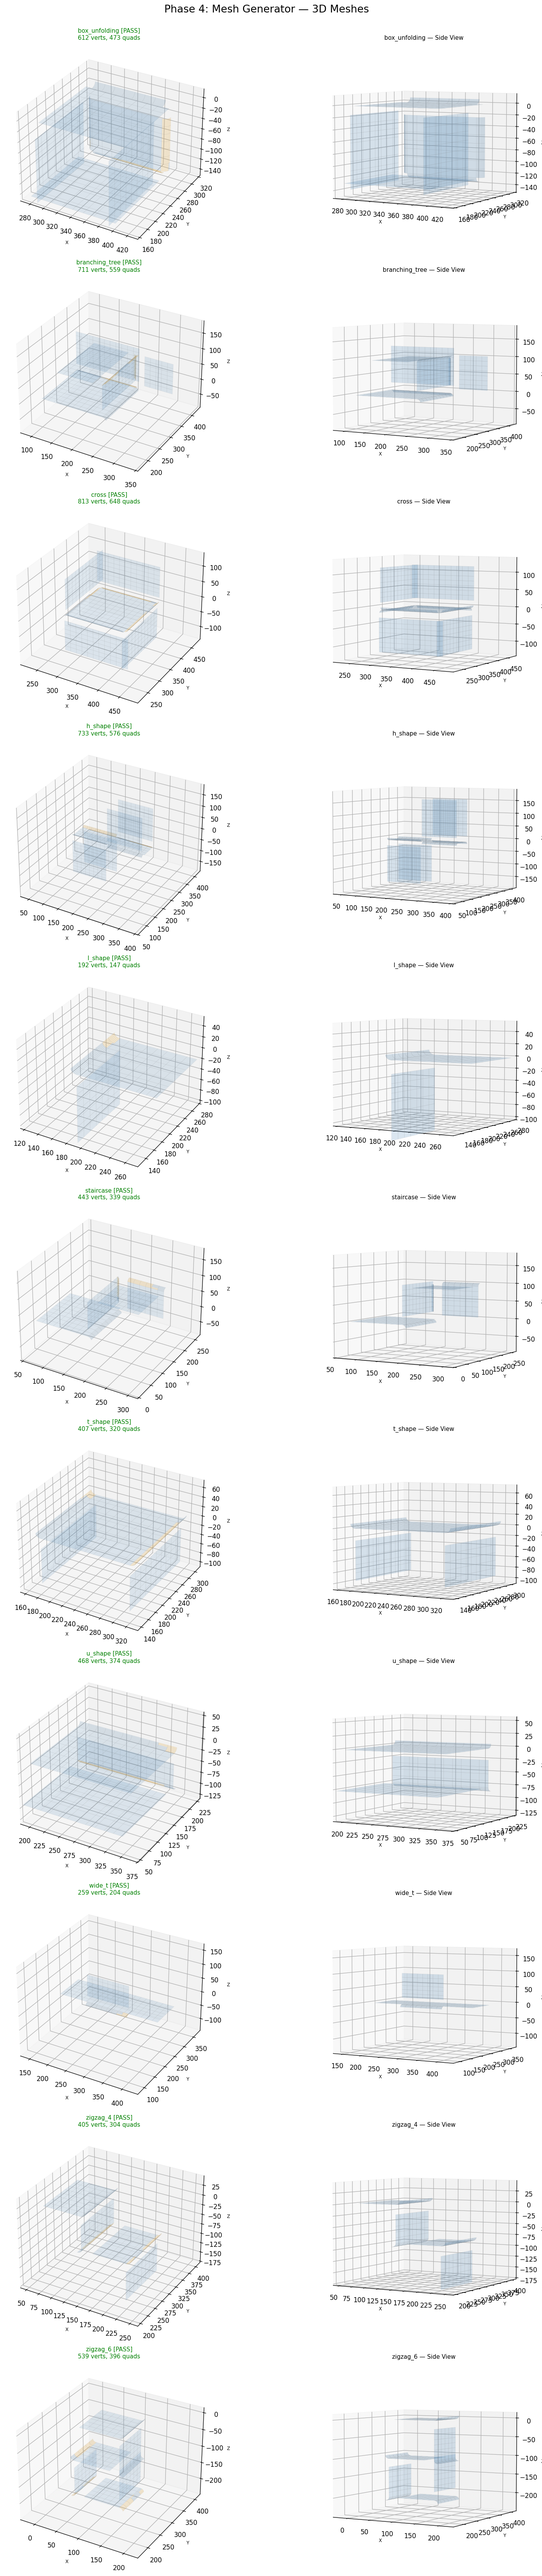
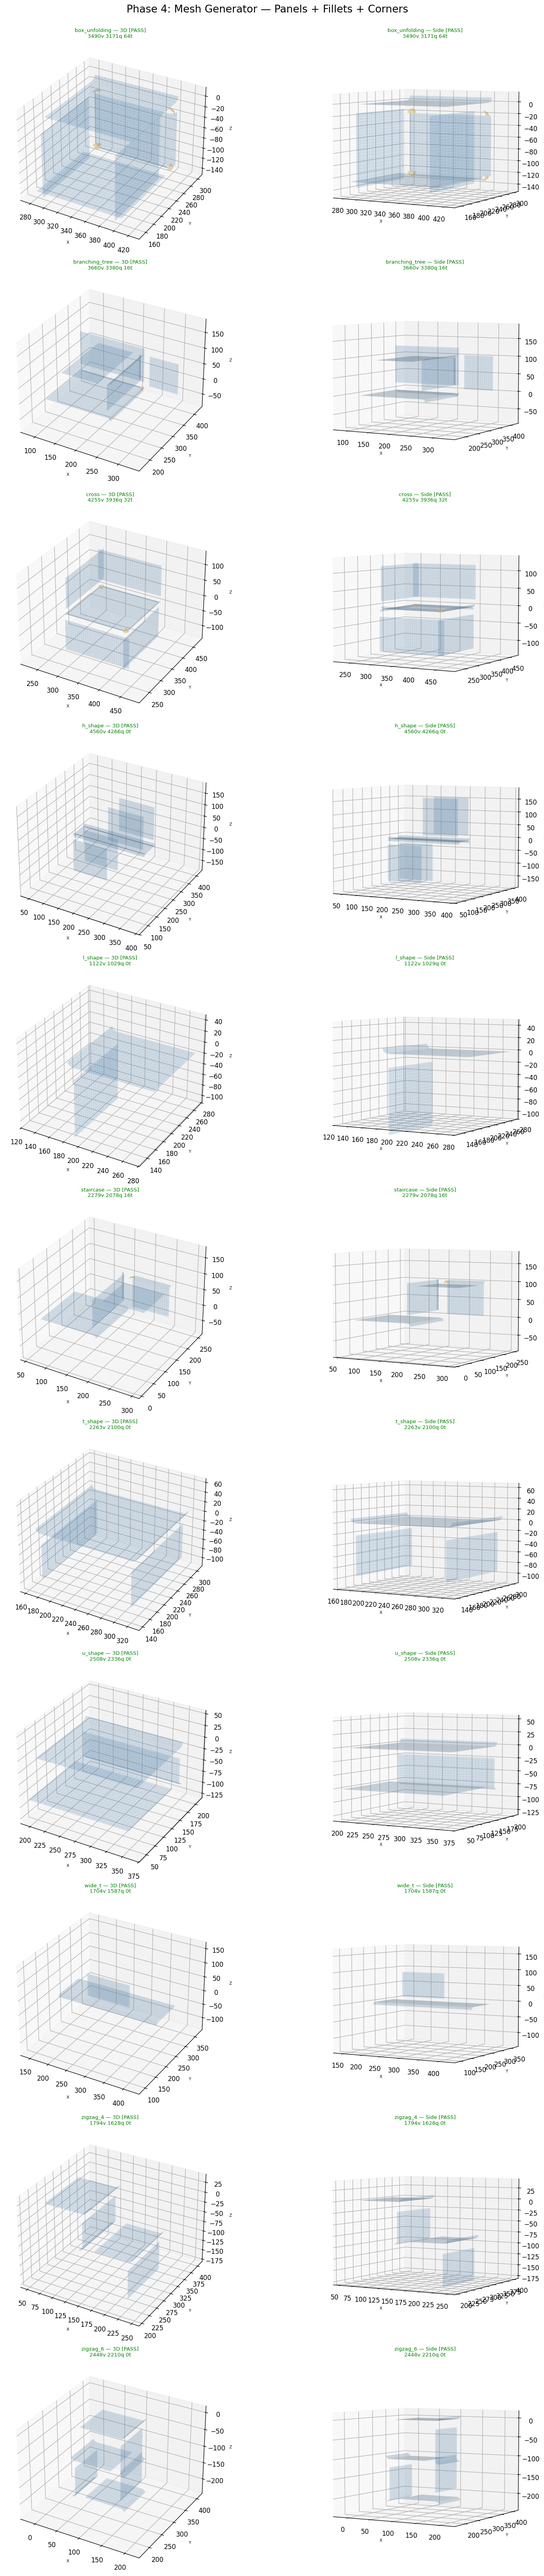
Origami-Gemini-Gen Phase 4 v2 results (2026-04-22 19:20 KST)

diff --git a/README.md b/README.md
@@ -4,8 +4,8 @@ This repo is used to share result images from Claude Code.
 
 **Timezone: KST (UTC+9)** — Server time is 9 hours behind KST.
 
-## Origami-Gemini-Gen Phase 4: Mesh Generator (2026-04-22 19:10 KST)
+## Origami-Gemini-Gen Phase 4 v2: Mesh Generator (2026-04-22 19:20 KST)
 
-### 3D Meshes with Fillets (all 11 PASS)
+### 3D Meshes — Panels + Fillets + Spherical Corners (all 11 PASS)
 ![phase4_results](phase4_results.png)
 
